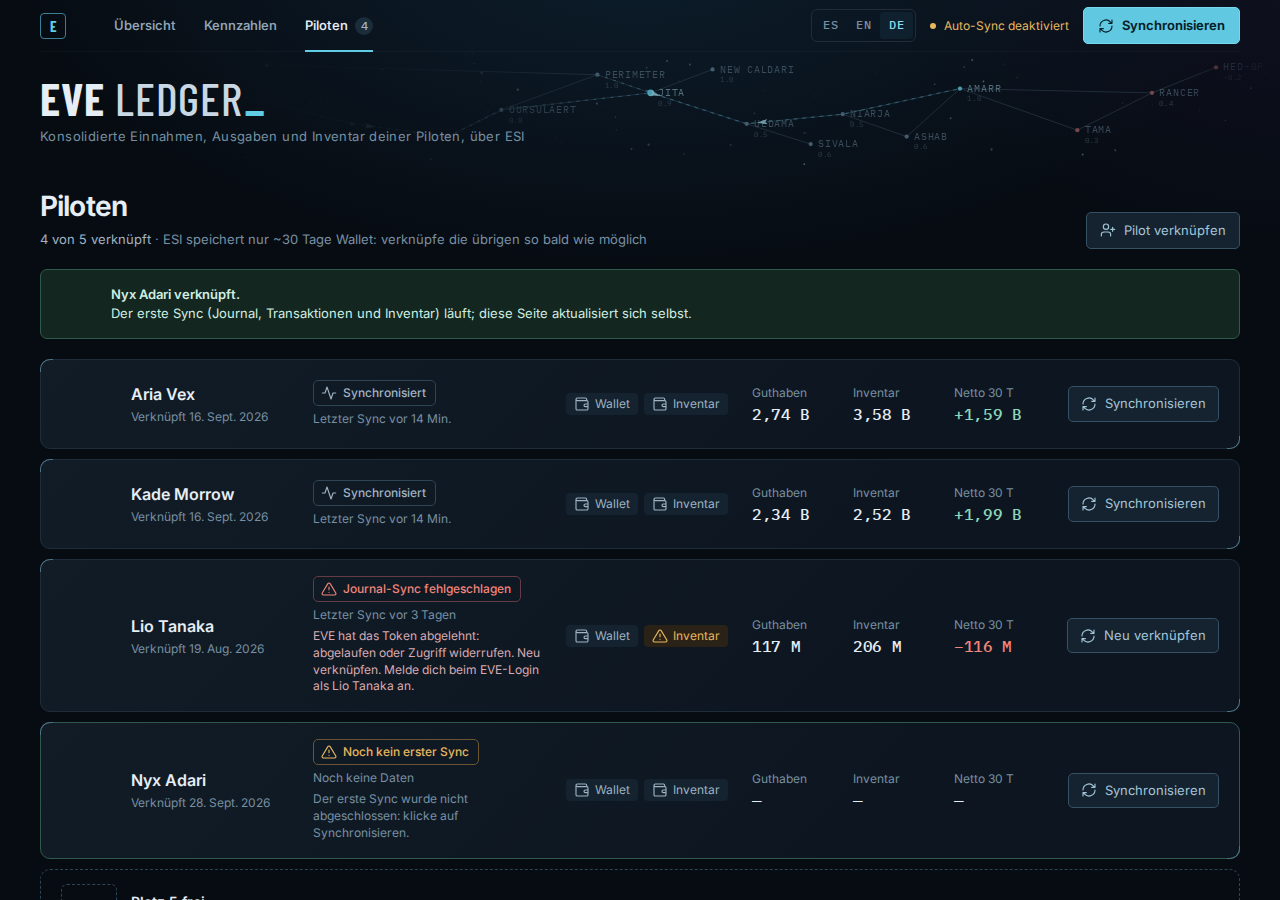
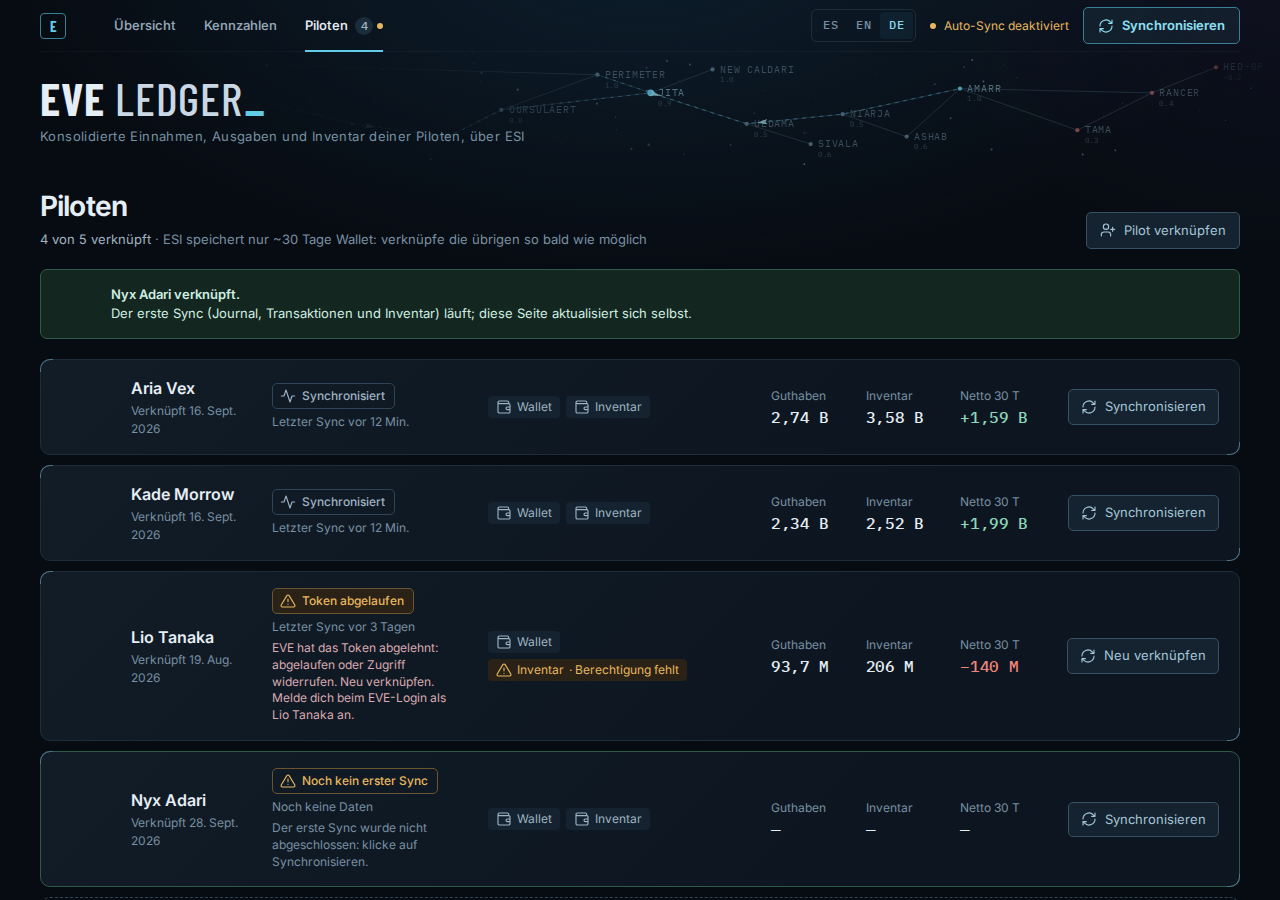
Octava crítica: cobertura de las cifras agregadas, un nombre por estado, Sincronizar en contorno, mapa plegado y conciliación del mercado
Claude-Session: https://claude.ai/code/session_01M8WtF2MrXeJVUAxf2xqCAQ

diff --git a/apps/web/src/lib/i18n.ts b/apps/web/src/lib/i18n.ts
@@ -142,7 +142,14 @@ const es = {
   inSpace: 'en el espacio',
   byActivityPeriod: (days: number) => `Por actividad · neto · últimos ${days} días`,
   actsNote: 'Trading es el margen: ventas − compras − comisiones.',
+  coverIncludes: (name: string, ago: string) => `incluye a ${name} con datos de ${ago}`,
+  coverExcludes: (name: string) => `sin ${name} (sin primer sync)`,
+  coverNoAssets: (name: string) => `inventario de ${name} sin actualizar (falta el permiso)`,
+  netIncludesStale: (v: string, name: string, ago: string) => `incluye ${v} de ${name} con datos de ${ago}`,
+  pilotIssues: (n: number) => `${n} ${n === 1 ? 'piloto necesita' : 'pilotos necesitan'} atención`,
+  marketReconcile: (sold: string, bought: string) => `En el wallet: ${sold} de ventas y ${bought} de compras de mercado.`,
   mapTitle: 'Tu New Eden',
+  seeOnMap: 'Ver en el mapa',
   relinkShort: 'revincular',
   income: 'Ingresos',
   expenses: 'Gastos',
@@ -266,7 +273,8 @@ const es = {
   noFirstSyncHint: 'El primer sync no terminó: pulsa Sincronizar.',
   stateStale: 'Sin sincronizar',
   stateError: (kind: string) => `Falló el sync de ${kind}`,
-  kindJournal: 'journal',
+  kindJournal: 'wallet',
+  stateToken: 'Token caducado',
   kindTransactions: 'transacciones',
   kindAssets: 'inventario',
   lastSyncAgo: 'Último sync',
@@ -276,6 +284,7 @@ const es = {
   scopeWallet: 'Wallet',
   scopeInventory: 'Inventario',
   scopeMissing: ' (falta el permiso)',
+  scopeMissingShort: 'falta el permiso',
   net30: (days: number) => `Neto ${days} d`,
   relink: 'Revincular',
   relinkTitle: 'Volver a iniciar sesión con este personaje en EVE',
@@ -410,7 +419,14 @@ const en: Messages = {
   inSpace: 'in space',
   byActivityPeriod: (days) => `By activity · net · last ${days} days`,
   actsNote: 'Trading is the margin: sales − purchases − fees.',
+  coverIncludes: (name, ago) => `includes ${name} with data from ${ago}`,
+  coverExcludes: (name) => `without ${name} (no first sync)`,
+  coverNoAssets: (name) => `${name}'s assets not updated (permission missing)`,
+  netIncludesStale: (v, name, ago) => `includes ${v} from ${name} with data from ${ago}`,
+  pilotIssues: (n) => `${n} ${n === 1 ? 'pilot needs' : 'pilots need'} attention`,
+  marketReconcile: (sold, bought) => `In the wallet: ${sold} of market sales and ${bought} of market purchases.`,
   mapTitle: 'Your New Eden',
+  seeOnMap: 'See on the map',
   relinkShort: 'relink',
   income: 'Income',
   expenses: 'Expenses',
@@ -530,7 +546,8 @@ const en: Messages = {
   noFirstSyncHint: 'The first sync did not finish: press Sync.',
   stateStale: 'Out of date',
   stateError: (kind) => `${kind} sync failed`,
-  kindJournal: 'Journal',
+  kindJournal: 'Wallet',
+  stateToken: 'Token expired',
   kindTransactions: 'Transactions',
   kindAssets: 'Assets',
   lastSyncAgo: 'Last sync',
@@ -540,6 +557,7 @@ const en: Messages = {
   scopeWallet: 'Wallet',
   scopeInventory: 'Assets',
   scopeMissing: ' (permission missing)',
+  scopeMissingShort: 'permission missing',
   net30: (days) => `Net ${days} d`,
   relink: 'Re-link',
   relinkTitle: 'Log in again with this character on EVE',
@@ -673,7 +691,14 @@ const de: Messages = {
   inSpace: 'im Weltraum',
   byActivityPeriod: (days) => `Nach Aktivität · netto · letzte ${days} Tage`,
   actsNote: 'Handel ist die Marge: Verkäufe − Käufe − Gebühren.',
+  coverIncludes: (name, ago) => `inklusive ${name} mit Daten von ${ago}`,
+  coverExcludes: (name) => `ohne ${name} (kein erster Sync)`,
+  coverNoAssets: (name) => `Inventar von ${name} nicht aktualisiert (Berechtigung fehlt)`,
+  netIncludesStale: (v, name, ago) => `enthält ${v} von ${name} mit Daten von ${ago}`,
+  pilotIssues: (n) => `${n} ${n === 1 ? 'Pilot braucht' : 'Piloten brauchen'} Aufmerksamkeit`,
+  marketReconcile: (sold, bought) => `Im Wallet: ${sold} Marktverkäufe und ${bought} Marktkäufe.`,
   mapTitle: 'Dein New Eden',
+  seeOnMap: 'Auf der Karte ansehen',
   relinkShort: 'neu verknüpfen',
   income: 'Einnahmen',
   expenses: 'Ausgaben',
@@ -793,7 +818,8 @@ const de: Messages = {
   noFirstSyncHint: 'Der erste Sync wurde nicht abgeschlossen: klicke auf Synchronisieren.',
   stateStale: 'Nicht aktuell',
   stateError: (kind) => `${kind}-Sync fehlgeschlagen`,
-  kindJournal: 'Journal',
+  kindJournal: 'Wallet',
+  stateToken: 'Token abgelaufen',
   kindTransactions: 'Transaktions',
   kindAssets: 'Inventar',
   lastSyncAgo: 'Letzter Sync',
@@ -803,6 +829,7 @@ const de: Messages = {
   scopeWallet: 'Wallet',
   scopeInventory: 'Inventar',
   scopeMissing: ' (Berechtigung fehlt)',
+  scopeMissingShort: 'Berechtigung fehlt',
   net30: (days) => `Netto ${days} T`,
   relink: 'Neu verknüpfen',
   relinkTitle: 'Mit diesem Charakter erneut bei EVE anmelden',

diff --git a/apps/web/src/styles/theme.css b/apps/web/src/styles/theme.css
@@ -226,6 +226,45 @@ a {
 }
 
 /* ───── Botones ───── */
+/* Acciones en línea (Sincronizar, Revincular, Revisar): enlace o botón, se ven igual en todas las páginas */
+.inline-action {
+  /* Zona táctil ampliada (40 px) sin mover el texto */
+  padding: 12px 0;
+  margin-block: -12px;
+  border: 0;
+  background: none;
+  font: inherit;
+  font-weight: 550;
+  color: var(--cyan);
+  text-decoration: none;
+  cursor: pointer;
+}
+.inline-action:hover {
+  text-decoration: underline;
+}
+.inline-action:disabled {
+  color: var(--text-muted);
+  cursor: progress;
+}
+.sync-form.inline {
+  display: inline;
+}
+/* Botón principal en contorno: la acción está a mano, pero lo más luminoso de la pantalla es el dato */
+.primary-button.outline {
+  background: #61cce514;
+  border-color: var(--cyan-dim);
+  color: #8addee;
+}
+.primary-button.outline:hover {
+  background: #61cce526;
+  border-color: var(--cyan);
+  box-shadow: none;
+}
+.primary-button.outline:disabled {
+  background: #61cce514;
+  border-color: var(--cyan-dim);
+  color: var(--text-muted);
+}
 .primary-button {
   display: inline-flex;
   align-items: center;

diff --git a/apps/web/src/lib/pilot-state.ts b/apps/web/src/lib/pilot-state.ts
@@ -23,7 +23,10 @@ export function pilotState(p: Pilot, m: Messages, staleAfterMs: number, syncRunn
   if (p.lastError) {
     const kinds: Record<string, string> = { journal: m.kindJournal, transactions: m.kindTransactions, assets: m.kindAssets };
     const kind = kinds[p.lastError.kind] ?? p.lastError.kind;
-    return { kind: 'error', text: m.stateError(kind), title: p.lastError.message, hint: explainError(p.lastError.message, m) };
+    const hint = explainError(p.lastError.message, m);
+    // Un token caducado se llama igual en todas partes (tarjeta, línea de salud y Pilotos)
+    const text = hint === m.errToken ? m.stateToken : m.stateError(kind);
+    return { kind: 'error', text, title: p.lastError.message, hint };
   }
   if (!p.lastSyncAt) {
     const recent = Date.now() - new Date(p.createdAt).getTime() < FIRST_SYNC_GRACE_MS;

diff --git a/CLAUDE.md b/CLAUDE.md
@@ -39,6 +39,7 @@ Proyecto personal, corre solo en localhost. Responder siempre en español neutro
 - Quinta crítica: el vistazo es `.hero-body` (Neto, «Hoy» y «Por actividad» con su título de período; 3 columnas desde 880 px de tarjeta, 2 desde 520 px, apilado en estrecho: Neto → composición → Hoy). El mapa «tu New Eden» solo va junto a Patrimonio si algún sistema ganó ISK hoy; si no, Patrimonio se compacta (`.worth.compact`, `.glance.solo`) y el mapa baja a la sección de inventario. Los estados de piloto se comparten en `apps/web/src/lib/pilot-state.ts` (Resumen y Pilotos); «Primer sync en curso…» solo mientras haya un sync en marcha (`/sync/status`) o el vínculo tenga < 10 min, si no pasa a «Sin primer sync» con Sincronizar como acción (y Pilotos deja de recargarse cada 15 s). El destino de «Saltar al contenido» es `#contenido` (`.skip-target`), antes de las pestañas de período.
 - Sexta crítica (honestidad de los datos): la frescura de la tarjeta de Neto es la del piloto filtrado (`selected.lastSyncAt`), no la del sync más reciente de todos; si ese piloto está roto o viejo, la tarjeta se apaga (`.hero-stat.stale`, neto y actividades en gris) y la línea «Al último sync» dice la causa y la acción («Datos hace 3 d · Falló el sync de journal · Revincular»). En consolidado dice cuántos están al día («2 de 4 pilotos al día · hace 12 min», en ámbar si no son todos). El aviso global «Datos desactualizados» solo mira el sync más reciente de todos (`globalLastSync`). La línea de salud bajo el filtro es una por piloto con causa corta y acción inline (Revincular → login de EVE, Sincronizar → `POST /sync` del piloto con `.link-button`, Revisar → Pilotos); en móvil (≤600 px) se sustituye por «2 pilotos sin sync reciente · Pilotos». El chip «Sync automático desactivado» sigue en ámbar a propósito. En tarjetas < 520 px «Hoy» es una fila compacta (22 px) justo bajo el neto y la composición va después. La comparación con el período anterior va en texto neutro y solo la flecha lleva el signo.
 - Séptima crítica: un piloto filtrado **sin ningún sync** no pinta ceros: el vistazo, el gráfico, «Por actividad», el inventario y el mercado se sustituyen por `.empty-pilot` («Aún sin datos de X», causa, Sincronizar por POST y «Ver todos los pilotos»); solo queda la tabla de pilotos, sin marcar esa fila. Las acciones en línea (Sincronizar, Revincular, Revisar) usan una sola clase, `.inline-action` (enlace o botón, cian, sin subrayado, 40 px de zona táctil), y «Revincular» lleva `title`/`aria-label` «elige X en el login de EVE» (en Pilotos, además, la pista visible). Los chips de la franja de un piloto con problemas llevan solo el icono ámbar y la edad en gris (borde neutro): la causa está en la línea de salud, que en móvil es una línea por piloto con su acción. En móvil «Todos» queda fijo (`position: sticky`) a la izquierda de la franja y el borde derecho se desvanece. El bloque de actividades de la tarjeta se titula «Por actividad · neto» y lleva la nota visible «Trading es el margen: ventas − compras − comisiones»; las pistas de cada actividad y de «Hoy» también van en `sr-only`, y un neto de 0 se anuncia como «sin cambio», no como ganancia. Sin período anterior completo, la tarjeta dice desde cuándo hay historial («Historial desde el 19 ago: …»); en la vista de un piloto, las transferencias internas son «con tus otros pilotos». En el gráfico, un día sin movimientos deja una marca corta en el eje (`.zero-mark`), distinta de la franja rayada «sin historial». Etiquetas del mapa «tu New Eden» a 12 px.
+- Octava crítica (cobertura de las cifras agregadas): `CoverageNote.astro` dice, bajo Patrimonio (consolidado) y bajo la ecuación de Omega (`walletOnly`), a quién incluye con datos viejos, a quién deja fuera (sin primer sync) y qué inventario no se puede refrescar (falta el scope de assets), cada uno con su acción en línea; no pinta nada si todos están al día. «Wallets» en Patrimonio lleva un icono ámbar si algún piloto no está al día. En «Todos», bajo el neto, una línea por piloto con problemas dice cuánto del neto viene de datos viejos («incluye −140 M de Lio Tanaka con datos de hace 3 d»); el neto no cambia de color. Un estado, un nombre: el token caducado es «Token caducado» en tarjeta, línea de salud y Pilotos, y «journal» se muestra como «wallet». En Pilotos el permiso que falta es texto visible y la insignia de error va en ámbar (el rojo queda para el neto negativo). «Sincronizar» de la cabecera es `.primary-button.outline` (el dato es lo más luminoso de la pantalla); los chips de piloto con problemas llevan un punto ámbar (`.stale-dot`), y «Pilotos» en la navegación, un punto ámbar con `pilotIssues`. `.inline-action` y `.sync-form.inline` viven en `theme.css`. Trampa HTML: un `<form>` dentro de un `<p>` cierra el párrafo; los contenedores con Sincronizar en línea son `<div>`. Sin ganancias hoy, el mapa bajo el inventario va plegado (`details.map-fold`, «Ver en el mapa»). La revisión de mercado concilia en su nota con el wallet («En el wallet: X de ventas y Y de compras de mercado», del `market_transaction` de `byActivity`). La ecuación de Omega tiene columna de operador (−, =) con valores en positivo.
 
 ## Esquema (`src/db/schema.ts`)
 `characters`, `wallet_journal`, `wallet_transactions` (con `client_id` y `journal_ref_id`), `names`, `assets`, `market_prices`, `market_quotes`, `systems`, `station_systems`, `sync_log` (con `kind`: `journal` | `transactions` | `assets`).
@@ -62,6 +63,7 @@ Proyecto personal, corre solo en localhost. Responder siempre en español neutro
 - [x] 15. Quinta crítica de impeccable (29/40) resuelta: vistazo reestructurado, mapa condicionado a ganancias de hoy, motivo de los pilotos sin sync y destino del salto al contenido.
 - [x] 16. Dashboard de Indicadores: Omega de todas las cuentas (coste de renovar vs. saldo de los wallets + PLEX en inventario; precio del PLEX del mercado en cada sync).
 - [x] 18. Séptima crítica de impeccable (31/40) resuelta entera, menores incluidas: estado vacío honesto para un piloto sin sync, Omega como ecuación con una sola medida de avance, «Por actividad · neto», acciones en línea unificadas, «Todos» fijo y acciones por piloto en móvil.
+- [x] 19. Octava crítica de impeccable (28/40) resuelta entera: cobertura de Patrimonio, Omega y neto consolidado, un nombre por estado, Sincronizar en contorno, mapa plegado, conciliación de la revisión de mercado.
 - [x] 17. Sexta crítica de impeccable (29/40) resuelta entera: frescura por piloto con causa, primer sync que caduca, línea de salud con acciones, Indicadores a 600 px cerrando con el ETA, «Hoy» bajo el neto en móvil.
 
 ## Paso 4 — especificación
